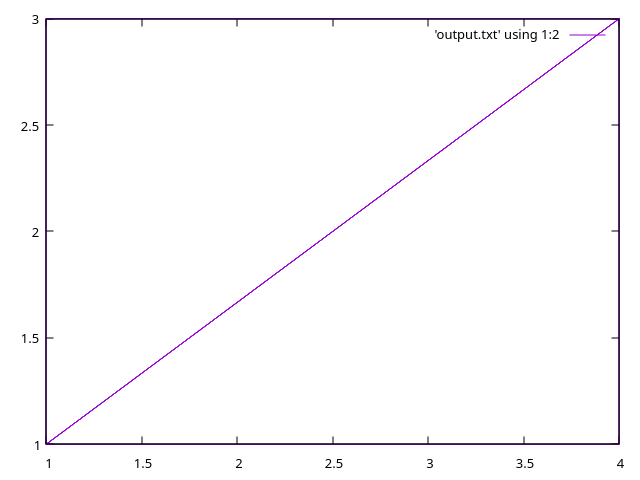
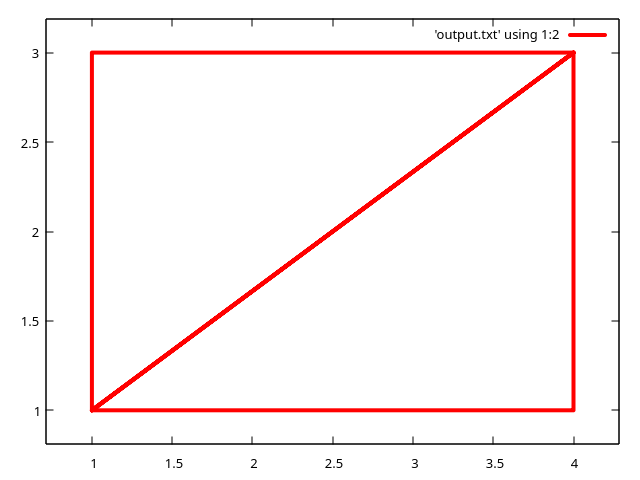
colored

diff --git a/Erchenkov_LG/3term/triangulation/src/triangulate.cpp b/Erchenkov_LG/3term/triangulation/src/triangulate.cpp
@@ -146,7 +146,7 @@ void Triangulate::plotPolygon(const std::vector<Point> &result) {
     out << p1.GetX() << " " << p1.GetY() << std::endl;
     out << p3.GetX() << " " << p3.GetY() << std::endl;
   }
-  system("gnuplot -e \"plot 'output.txt' using 1:2 with lines\" -p");
+  system("gnuplot -e \"plot 'output.txt' using 1:2 with lines linewidth 4 lc rgb 'red' \" -p");
   out.close();
 
 }
